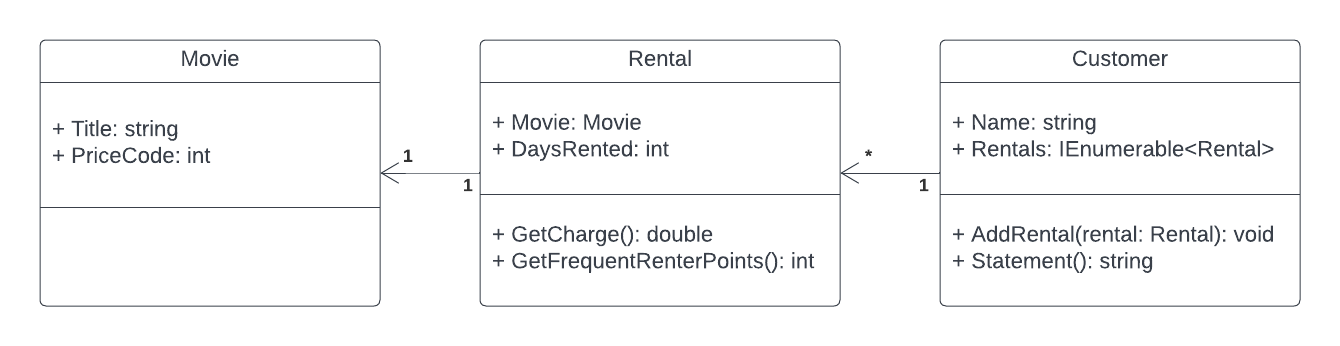
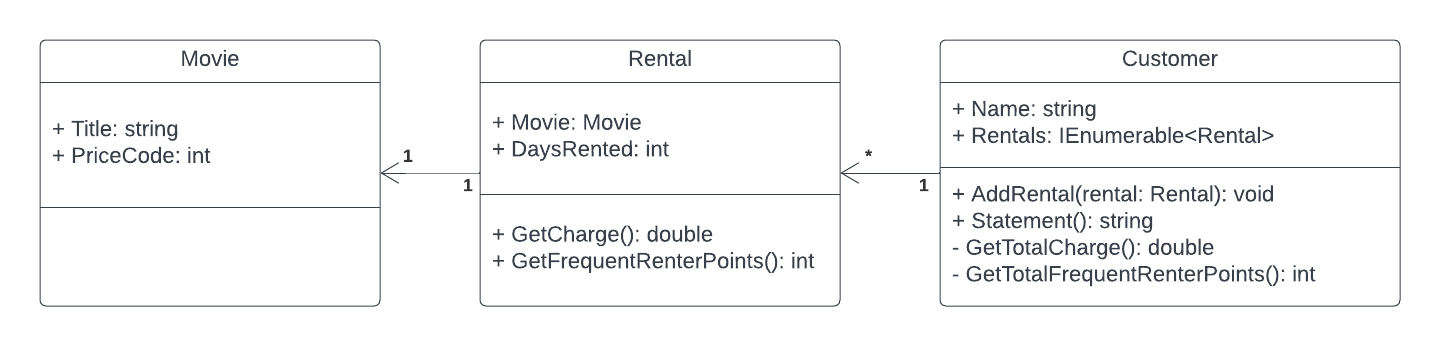
Replace temp with query

diff --git a/MoviesRental/Customer.cs b/MoviesRental/Customer.cs
@@ -17,22 +17,23 @@ public class Customer
 
     public string Statement()
     {
-        double totalAmount = 0;
-        int frequentRentalPoints = 0;
-
         string result = $"Rental for {Name}\n";
 
         foreach (var aRental in Rentals)
-        {
-            frequentRentalPoints += aRental.GetFrequentRenterPoints();
-
             result += $"\t{aRental.Movie.Title}\t{aRental.GetCharge()}\n";
-            totalAmount += aRental.GetCharge();
-        }
 
-        result += $"The amount of debt is {totalAmount}\n";
-        result += $"You earned {frequentRentalPoints} for activity";
+        result += $"The amount of debt is {GetTotalCharge()}\n";
+        result += $"You earned {GetTotalFrequentRenterPoints()} for activity";
 
         return result;
+    }
+
+    private double GetTotalCharge()
+    {
+        return Rentals.Sum(r => r.GetCharge());
+    }
+    private int GetTotalFrequentRenterPoints()
+    {
+        return Rentals.Sum(r => r.GetFrequentRenterPoints());
     }
 }
